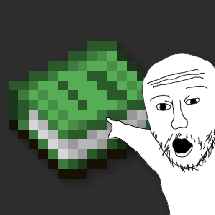
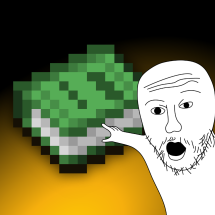
> life

diff --git a/src/main/java/me/melontini/recipebookispain/mixin/RecipeBookGroupMixin.java b/src/main/java/me/melontini/recipebookispain/mixin/RecipeBookGroupMixin.java
@@ -6,6 +6,7 @@ import net.minecraft.client.recipebook.RecipeBookGroup;
 import net.minecraft.item.ItemGroup;
 import net.minecraft.item.ItemStack;
 import net.minecraft.recipe.book.RecipeBookCategory;
+import org.apache.commons.lang3.ArrayUtils;
 import org.objectweb.asm.Opcodes;
 import org.spongepowered.asm.mixin.*;
 import org.spongepowered.asm.mixin.gen.Invoker;
@@ -51,28 +52,28 @@ public class RecipeBookGroupMixin {
 
     @Inject(at = @At(value = "FIELD", opcode = Opcodes.PUTSTATIC, target = "Lnet/minecraft/client/recipebook/RecipeBookGroup;field_1805:[Lnet/minecraft/client/recipebook/RecipeBookGroup;", shift = At.Shift.AFTER), method = "<clinit>")
     private static void rbip$addCustomGroups(CallbackInfo ci) {
-        var groups = new ArrayList<>(Arrays.asList(field_1805));
-        var last = groups.get(groups.size() - 1);
-
         CRAFTING_SEARCH_LIST = new ArrayList<>();
         CRAFTING_LIST = new ArrayList<>();
 
         Arrays.stream(ItemGroup.GROUPS).filter(itemGroup -> itemGroup != ItemGroup.HOTBAR && itemGroup != ItemGroup.INVENTORY && itemGroup != ItemGroup.SEARCH)
                 .forEach(itemGroup -> {
                     String name = "P_CRAFTING_" + itemGroup.getIndex();
-                    var recipeBookGroup = newGroup(name, last.ordinal() + 1, itemGroup.getIcon());
+                    var recipeBookGroup = rbip$extend(name, itemGroup.getIcon());
                     RecipeBookIsPainClient.RECIPE_BOOK_GROUP_TO_ITEM_GROUP.put(recipeBookGroup, itemGroup);
                     RecipeBookIsPainClient.ITEM_GROUP_TO_RECIPE_BOOK_GROUP.put(itemGroup, recipeBookGroup);
 
                     CRAFTING_LIST.add(recipeBookGroup);
                     CRAFTING_SEARCH_LIST.add(recipeBookGroup);
-
-                    groups.add(recipeBookGroup);
                 });
         CRAFTING_LIST.add(0, RecipeBookGroup.CRAFTING_SEARCH);
-
-        field_1805 = groups.toArray(RecipeBookGroup[]::new);
         RecipeBookIsPainClient.LOGGER.info("[RBIP] recipe book init complete");
+    }
+
+    private static RecipeBookGroup rbip$extend(String internalName, ItemStack... stacks) {
+        RecipeBookGroup last = field_1805[field_1805.length - 1];
+        RecipeBookGroup enumConst = newGroup(internalName, last.ordinal() + 1, stacks);
+        field_1805 = ArrayUtils.add(field_1805, enumConst);
+        return enumConst;
     }
 
     @Inject(at = @At("HEAD"), method = "getGroups", cancellable = true)

diff --git a/src/main/java/me/melontini/recipebookispain/mixin/ClientRecipeBookMixin.java b/src/main/java/me/melontini/recipebookispain/mixin/ClientRecipeBookMixin.java
@@ -10,15 +10,15 @@ import net.minecraft.recipe.RecipeType;
 import org.spongepowered.asm.mixin.Mixin;
 import org.spongepowered.asm.mixin.injection.At;
 import org.spongepowered.asm.mixin.injection.Inject;
+import org.spongepowered.asm.mixin.injection.callback.CallbackInfo;
 import org.spongepowered.asm.mixin.injection.callback.CallbackInfoReturnable;
 
 @Mixin(value = ClientRecipeBook.class, priority = 999)
 public class ClientRecipeBookMixin {
-    static {
-        //noinspection ResultOfMethodCallIgnored
+    @Inject(at = @At("HEAD"), method = "<clinit>")
+    private static void rbip$clinit(CallbackInfo ci) {
         RecipeBookGroup.values();
     }
-
     @Inject(at = @At("HEAD"), method = "getGroupForRecipe", cancellable = true)
     private static void rbip$getGroupForRecipe(Recipe<?> recipe, CallbackInfoReturnable<RecipeBookGroup> cir) {
         RecipeType<?> recipeType = recipe.getType();

diff --git a/src/main/java/me/melontini/recipebookispain/mixin/RecipeBookWidgetMixin.java b/src/main/java/me/melontini/recipebookispain/mixin/RecipeBookWidgetMixin.java
@@ -170,7 +170,7 @@ public abstract class RecipeBookWidgetMixin implements RecipeBookWidgetAccess {
             wc++;
         }
 
-        this.pages = MathHelper.ceil(wc / 6f);
+        this.pages = (int) Math.ceil(wc / 6f);
         updatePages();
         updatePageSwitchButtons();
         ci.cancel();

diff --git a/CHANGELOG.md b/CHANGELOG.md
@@ -1,7 +1,10 @@
-## 0.8.0-1.18
+## 0.8.1-1.18
 
 ### What's new:
 
-* mostly internal changes.
+* Fixed RBIP's enum values having identical indexes. pretty epic.
+* New icon.
+* Updated GitHub CI.
+* Removed `static` from ClientRecipeBookMixin.
 
 Supports: Minecraft 1.18, 1.18.1, 1.18.2, 1.19, 1.19.1, 1.19.2
